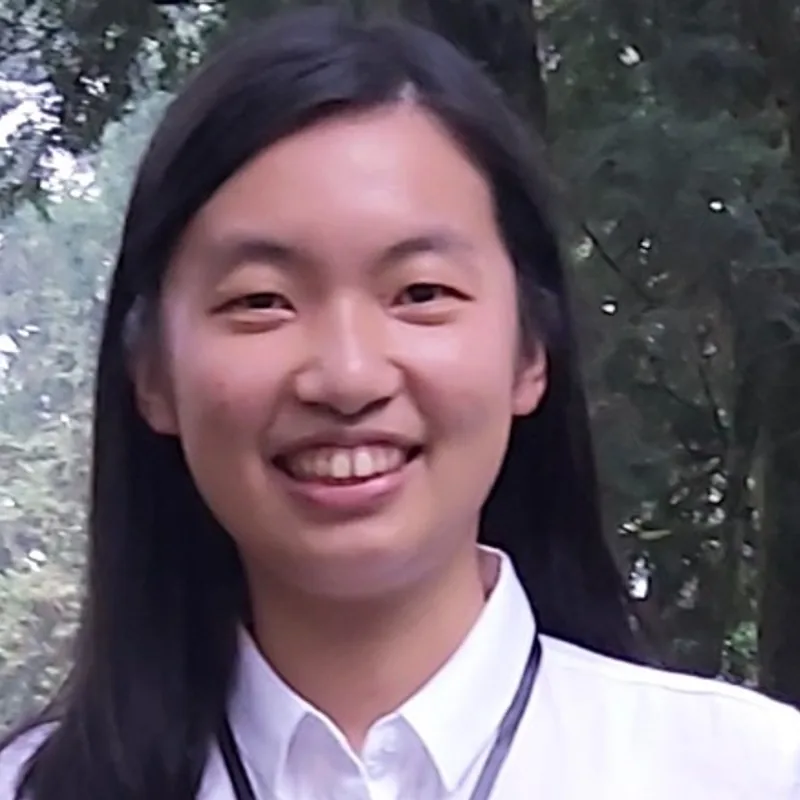
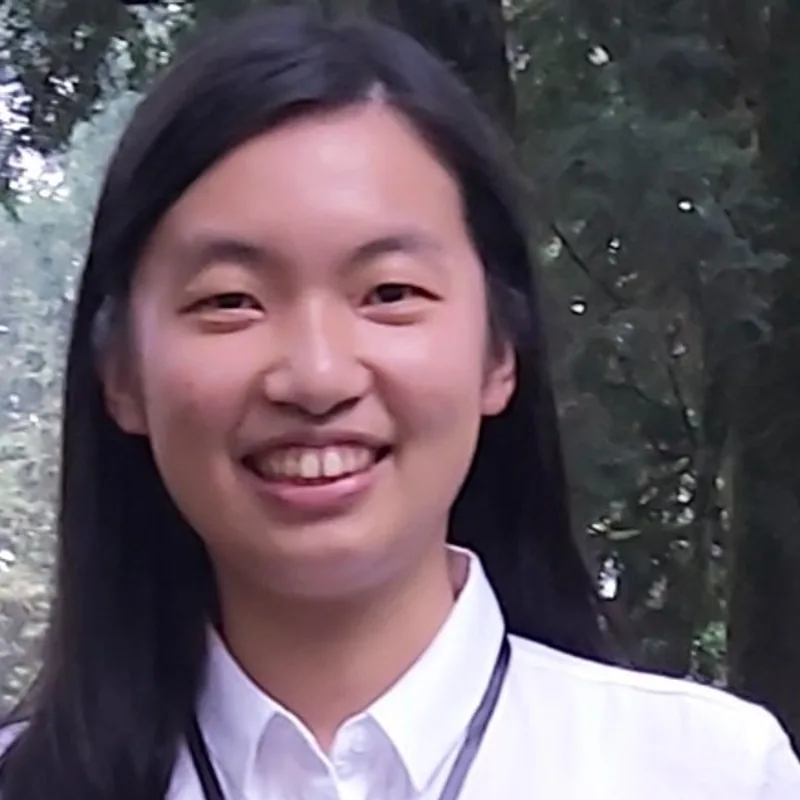
Fix faces cropped at the eyes; shrink portraits via column width
Morris Ma's and Dr. Naveen's photos were showing forehead and eyes only. Two
compounding causes:

  1. Double cropping. The source was cropped square, then the 4:3 card box
     cropped that again. Both anchored to the top, so a quarter of each face
     went.
  2. The 4:3 box itself. Several sources are passport photos where the head
     already fills the frame - a landscape box has to remove height, and no
     crop position saves a face from that. Anchoring to the top made it worse,
     not better: it took the chin instead of the hair.

Portraits now get portrait framing. Sources are square again, the card is
square, and the two ratios match exactly so the browser crops nothing.

Source crops also switch from a fixed 'top' rule to sharp's attention
strategy, which picks the salient region per photo. The inputs range from
passport crops to landscape snapshots, so any fixed rule mis-frames one or the
other - that is what the per-photo override on Viney's landscape shot was
working around, and it is no longer needed.

Size now comes from column width alone: five across from xl instead of four,
putting portraits at 246px. Cropping to fit a smaller box is what broke faces,
so it is not a lever any more.

All twelve inspected individually.

NOT DEPLOYED - Netlify credits exhausted until the cycle resets.

diff --git a/components/site/team-roster.tsx b/components/site/team-roster.tsx
@@ -78,9 +78,9 @@ export function TeamRoster() {
               className="mb-10"
             />
 
-            {/* Four columns from xl. This is what shrinks the portrait — a
-                narrower column, rather than a crop that would cut heads. */}
-            <div className="grid gap-5 sm:grid-cols-2 lg:grid-cols-3 xl:grid-cols-4">
+            {/* Five columns from xl. Column width is the only size control —
+                cropping the portrait to fit a smaller box cuts faces. */}
+            <div className="grid gap-5 sm:grid-cols-2 lg:grid-cols-4 xl:grid-cols-5">
               {tier.people.map((p, i) => (
                 <PersonCard key={p.id} person={p} tone={tier.tone} delay={i * 0.08} />
               ))}
@@ -117,19 +117,17 @@ function PersonCard({
       <div className="group relative flex h-full flex-col overflow-hidden rounded-2xl border border-slate-200 bg-white shadow-card transition-all duration-300 hover:-translate-y-1 hover:border-slate-300 hover:shadow-card-lg">
         <span className={cn('absolute inset-x-0 top-0 z-10 h-0.5', bar)} aria-hidden="true" />
 
-        {/* Full-bleed portrait, 4:3 rather than square so it sits shorter in
-            the card. The sources are square and already cropped face-high, so
-            object-top takes the difference off the bottom — shoulders, not
-            heads. */}
+        {/* Square, matching the source ratio exactly, so nothing is cropped
+            here. Size comes from the column width — see the grid above. */}
         {person.photo ? (
-          <span className="relative block aspect-[4/3] w-full overflow-hidden bg-slate-100">
+          <span className="relative block aspect-square w-full overflow-hidden bg-slate-100">
             <Image
               src={person.photo}
               alt={person.name}
               width={800}
               height={800}
-              sizes="(min-width: 1280px) 23vw, (min-width: 1024px) 30vw, (min-width: 640px) 45vw, 90vw"
-              className="h-full w-full object-cover object-top transition-transform duration-500 group-hover:scale-[1.04]"
+              sizes="(min-width: 1280px) 18vw, (min-width: 1024px) 23vw, (min-width: 640px) 45vw, 90vw"
+              className="h-full w-full object-cover transition-transform duration-500 group-hover:scale-[1.04]"
             />
             <span
               aria-hidden="true"
@@ -140,7 +138,7 @@ function PersonCard({
           <span
             aria-hidden="true"
             className={cn(
-              'flex aspect-[4/3] w-full items-center justify-center font-display text-5xl font-extrabold',
+              'flex aspect-square w-full items-center justify-center font-display text-4xl font-extrabold',
               ring,
             )}
           >
